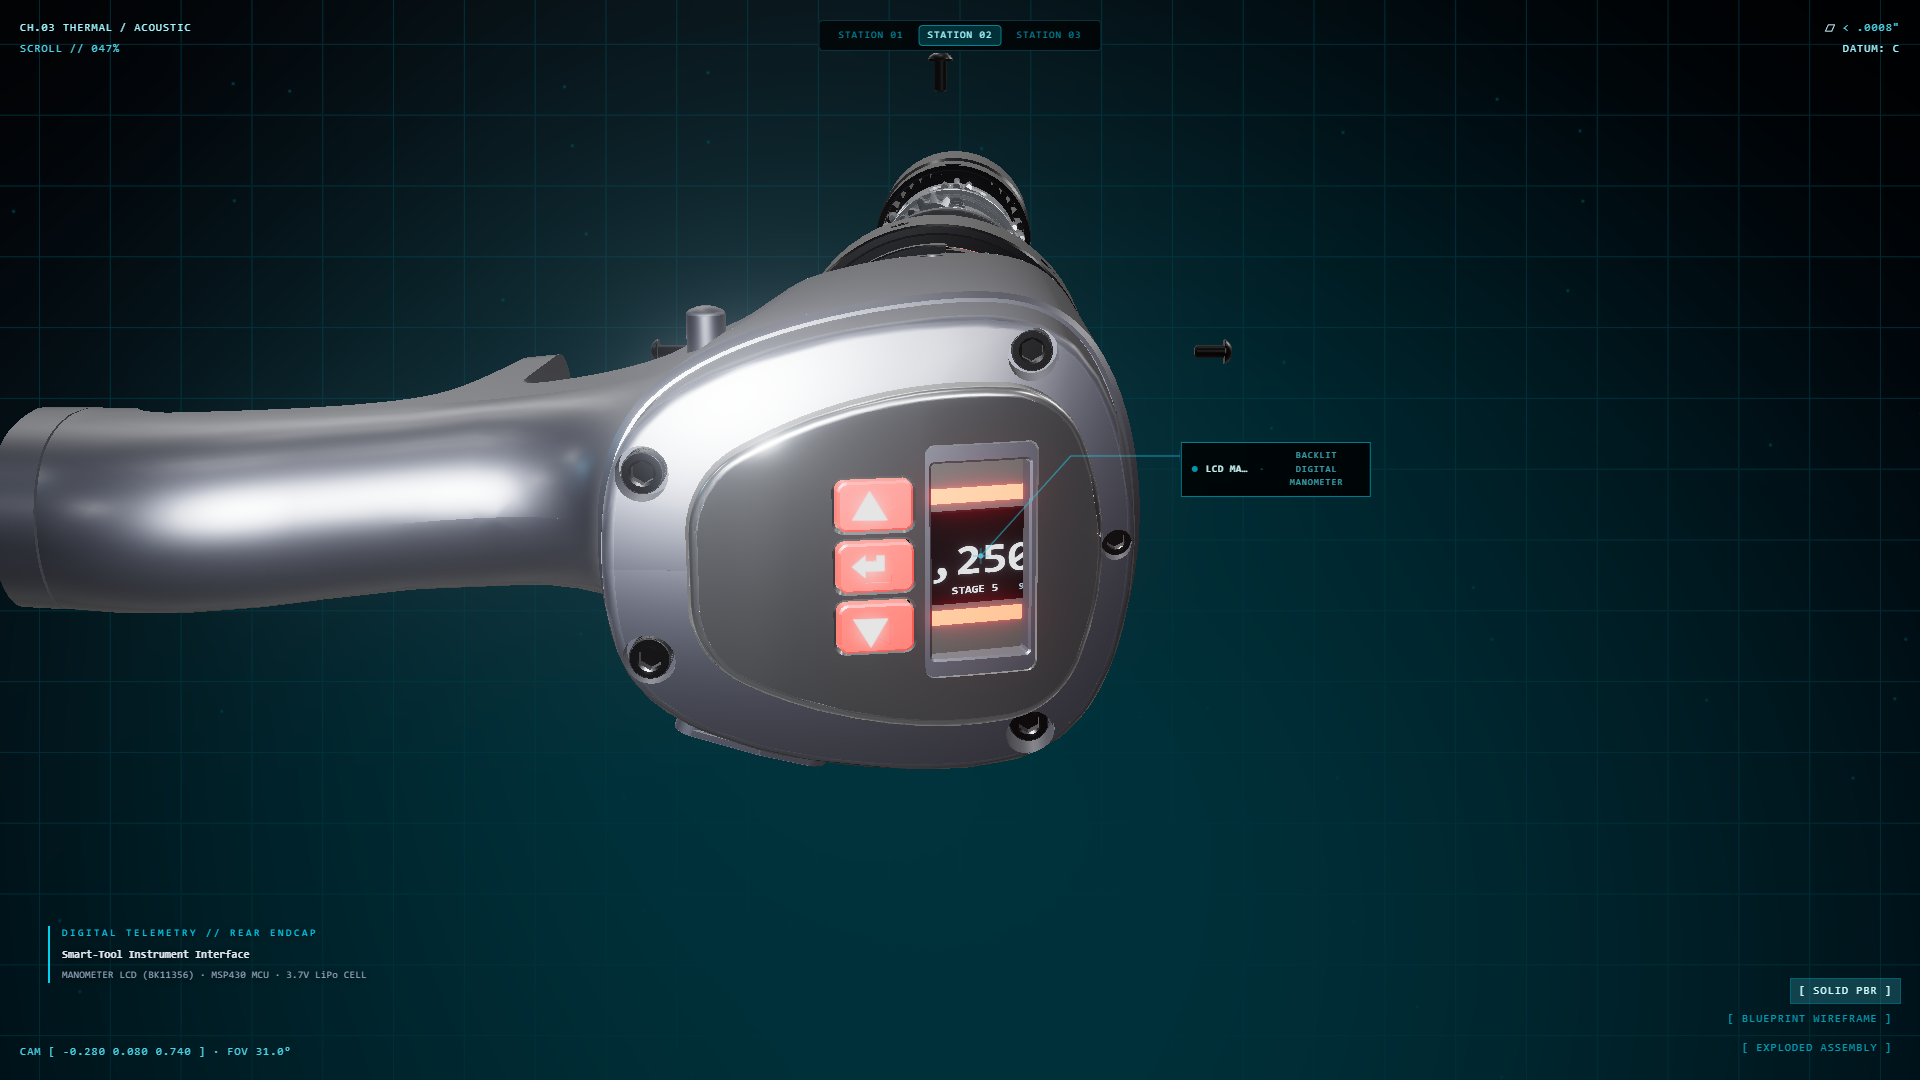
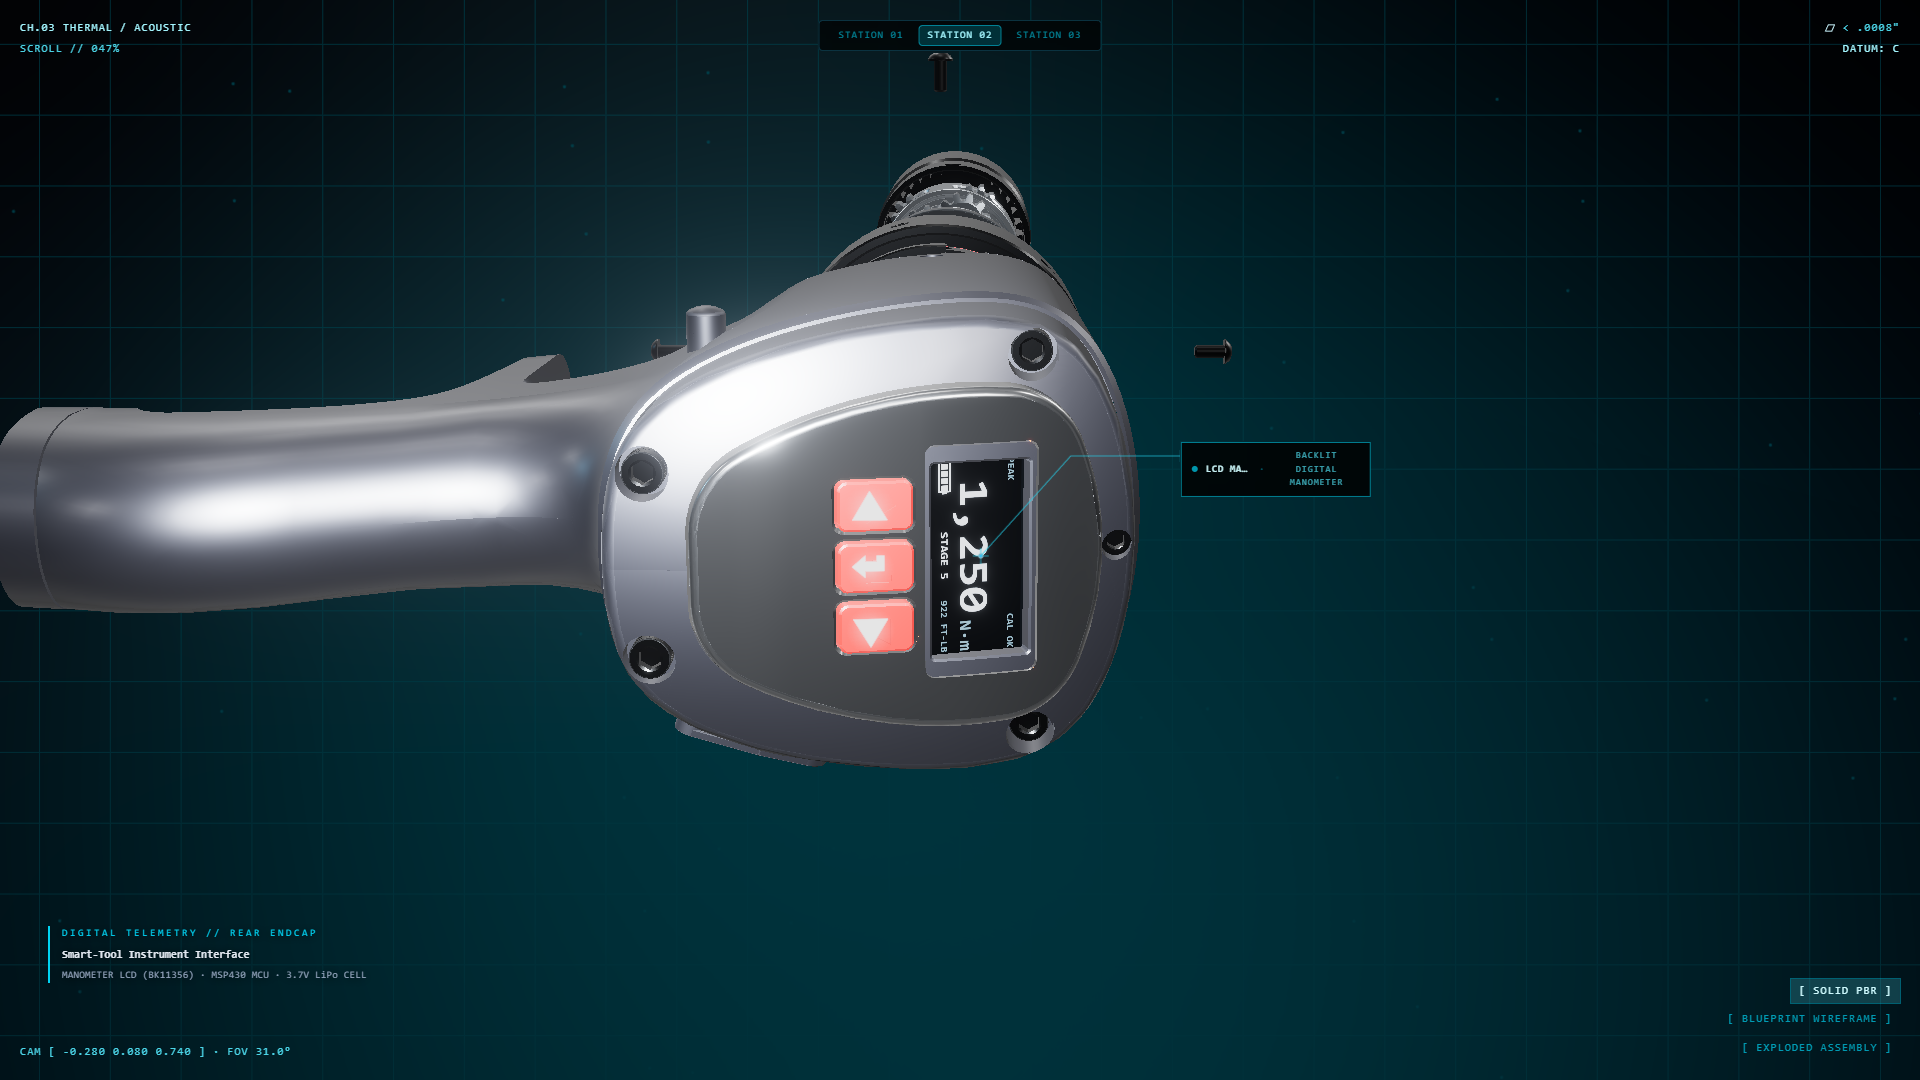
fix(lcd): JG-027 rev 1 — rotate bezel+readout 90 CW per owner ruling
Owner defect report: the endcap window reads portrait from the dwell camera
but the dressing was world-up landscape — only the ',250' slice showed
through. Ruling: LCD dressing rotates 90 clockwise from the viewer; button
symbols stay as-is. Probe gains long-axis-vertical + reads-top-to-bottom
gates for bezel/readout.

Changed region(s): [[0.4688, 0.4278, 0.5625, 0.6111], [0.4688, 0.1528, 0.5312, 0.2139]]

diff --git a/src/scene/rig/lcdCluster.ts b/src/scene/rig/lcdCluster.ts
@@ -328,6 +328,13 @@ export function buildLcdCluster(root: Object3D, finalMeshes: Mesh[]): LcdCluster
   const holePath = new Shape()
   roundedRectPath(holePath, 2 * (longHalf - 0.0004), 2 * (shortHalf - 0.0004), 0.0012)
   outer.holes.push(holePath)
+  // Owner ruling 2026-09-06: the endcap window reads portrait from the dwell
+  // camera, so the bezel + readout dressing rotates 90° clockwise about the
+  // screen normal (−90° right-handed, normal toward the viewer) to read
+  // vertically through it. The button symbols are ruled correct as-is.
+  const READOUT_BASIS = decalBasis(screenNormal, WORLD_UP).multiply(
+    new Quaternion().setFromAxisAngle(new Vector3(0, 0, 1), -Math.PI / 2),
+  )
   const bezel = new Mesh(
     new ShapeGeometry(outer, 6),
     roleMaterial('lcdBezelRed'),
@@ -338,7 +345,7 @@ export function buildLcdCluster(root: Object3D, finalMeshes: Mesh[]): LcdCluster
     screen.node,
     bezel,
     screenFace.clone().addScaledVector(screenNormal, 0.0002),
-    decalBasis(screenNormal, WORLD_UP),
+    READOUT_BASIS.clone(),
   )
 
   // Data readout: white-on-dark canvas LCD over the panel face.
@@ -352,7 +359,7 @@ export function buildLcdCluster(root: Object3D, finalMeshes: Mesh[]): LcdCluster
     screen.node,
     readout,
     screenFace.clone().addScaledVector(screenNormal, 0.0006),
-    decalBasis(screenNormal, WORLD_UP),
+    READOUT_BASIS.clone(),
   )
 
   // ---- Buttons: luminous white ▲/⏎/▼ symbol decals on each cap.

diff --git a/project/work/evidence/JG-027-lcd-cluster-verification.md b/project/work/evidence/JG-027-lcd-cluster-verification.md
@@ -2,6 +2,8 @@
 
 **Status: machine-verified 2026-09-06 (branch `zcode/jg-027-lcd-cluster`) — owner visual ruling PENDING at `http://localhost:4173/?dwell=lcd`.**
 
+**Revision 1 (owner defect report + ruling, 2026-09-06):** owner observed the endcap window reads **portrait** from the dwell camera while the bezel/readout dressing was world-up-based **landscape** — only the middle slice of the readout (",250") showed through the window. Ruling: rotate the LCD dressing **90° clockwise** from the viewer; button symbols are correct as-is. Implemented as a −90° right-handed rotation about the screen normal applied to the bezel + readout basis (`lcdCluster.ts` `READOUT_BASIS`). New probe gates: bezel/readout long axis vertical on screen (`longAxisUpDot` = 1.0, threshold 0.8) and text baseline flowing **top-to-bottom** (`readsTopToBottom: true`); symbol gates unchanged (horizontal, untouched). Re-run PASS: facing 0.924–0.973 all surfaces, readout 1,734 white px in its (now portrait) rect, symbols 459–604 white px each, zero failures, both viewports + `?dwell=lcd` (paced 0.47299) + reduced-motion green.
+
 Probe: `scripts/verify-jg027-lcd-cluster.mjs` (assert pass `report.json`, pre-fix reference `report-before.json`, both in this directory, PNGs alongside). All runs against a fresh `npm run build` + restarted `:4173` preview; `npm run typecheck` PASS; `npm run check:station2` PASS (2,380,776 B, 7 roots, 7 anchors).
 
 ## Root cause + record correction
